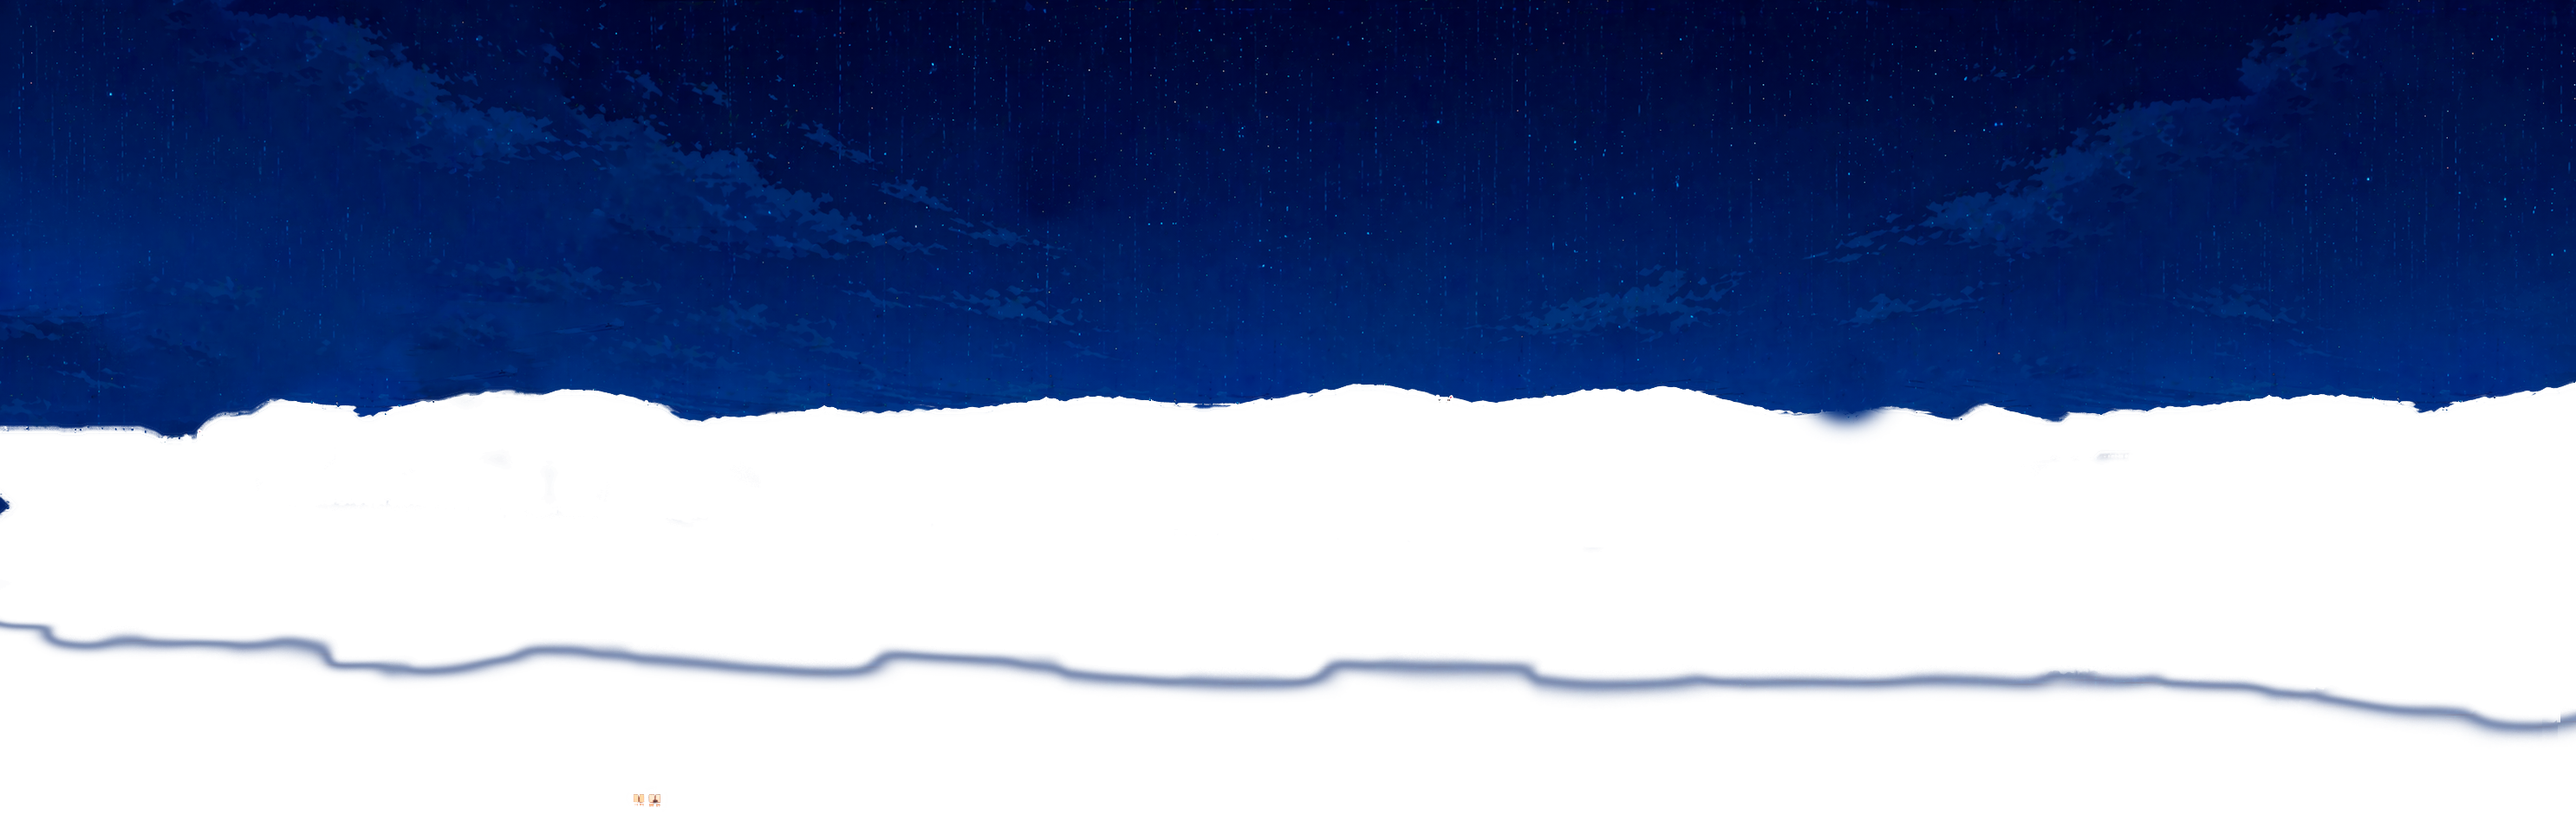
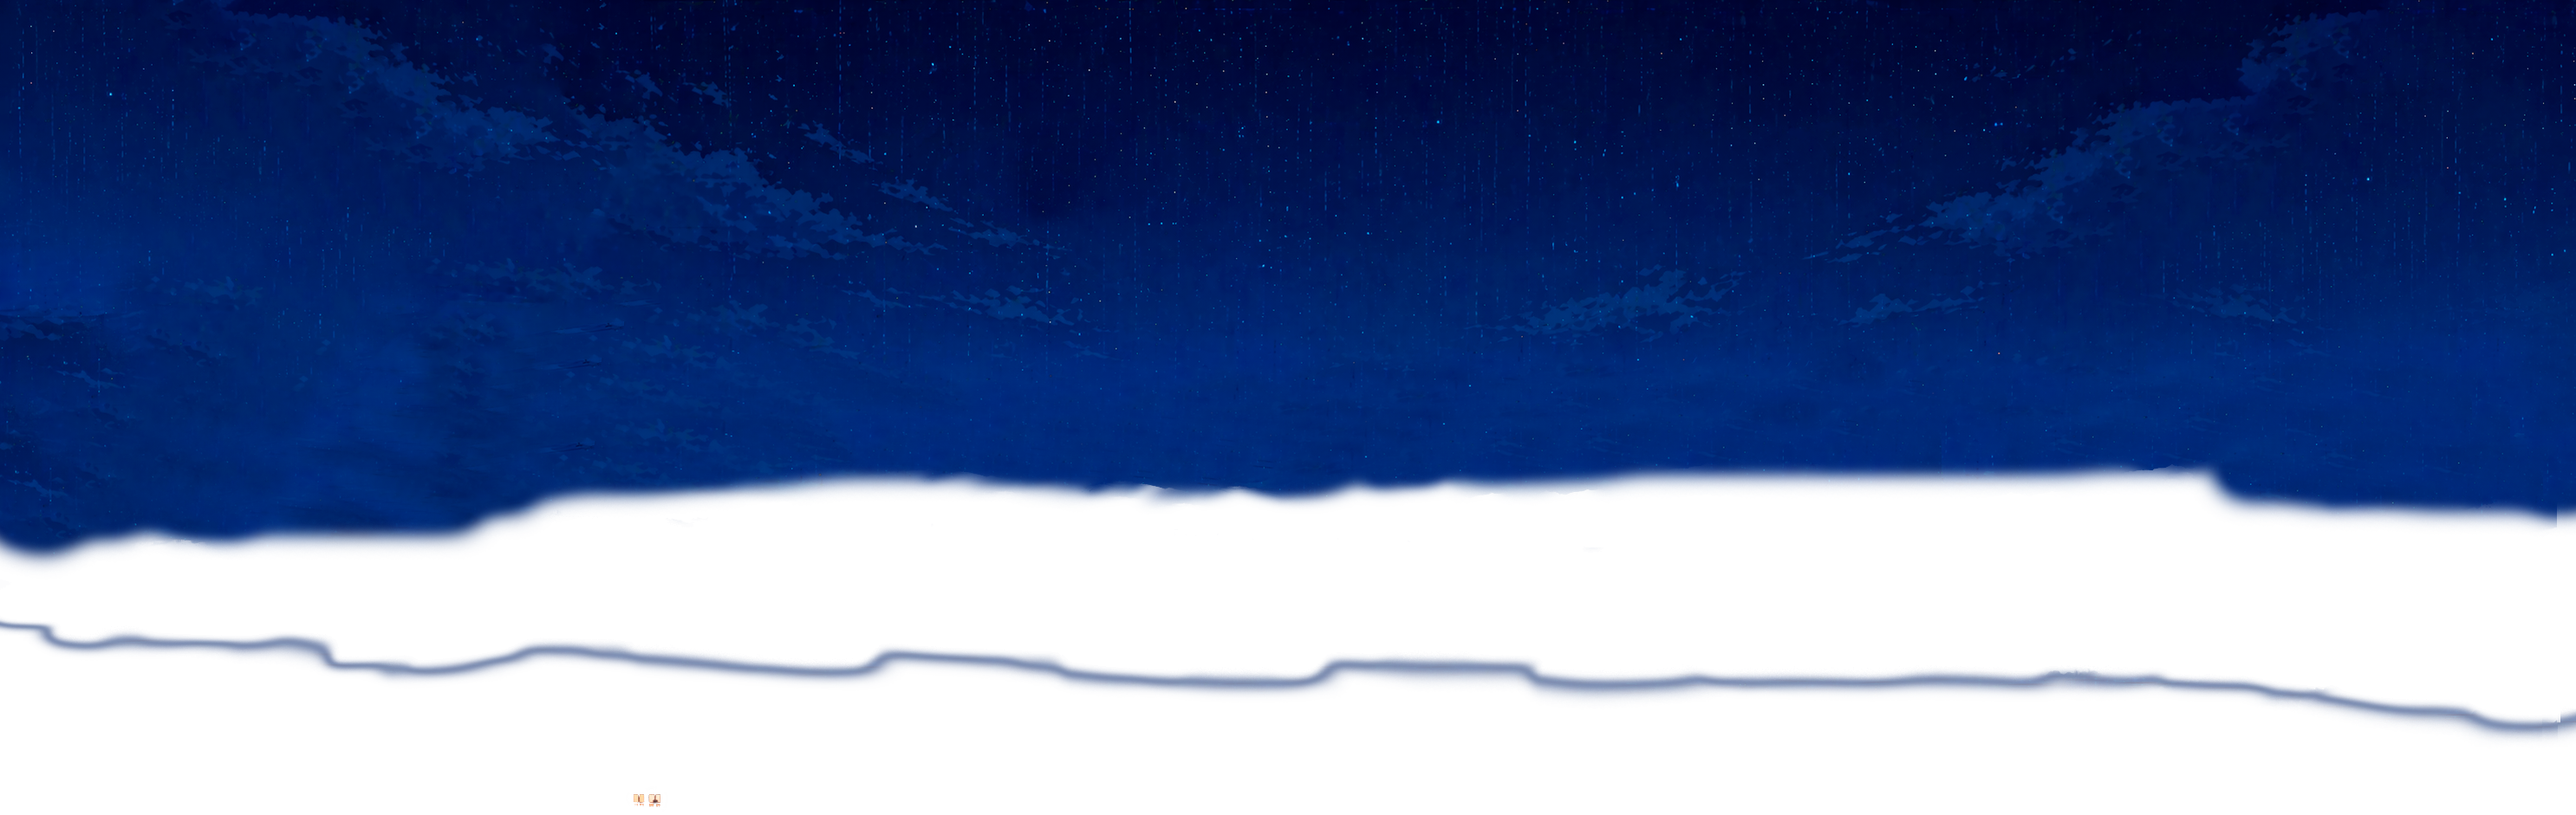
feat: add start-button and interface layer

Changed region(s): [[0.0, 0.4623, 1.0, 0.7088]]

diff --git a/src/shared/components/buttons/start-button/ui/StartButton.vue b/src/shared/components/buttons/start-button/ui/StartButton.vue
@@ -1,0 +1,24 @@
+<template>
+  <button
+    class="relative p-2 flex-center border-2 rounded transition-all border-slate-300/50 backdrop-blur-xs -rotate-y-6 rotate-x-70 -rotate-z-10 hover:rotate-x-0 hover:rotate-y-0 hover:rotate-z-0"
+  >
+    <svg
+      xmlns="http://www.w3.org/2000/svg"
+      viewBox="0 0 24 24"
+      fill="none"
+      stroke-width="2"
+      stroke-linecap="round"
+      stroke-linejoin="round"
+      class="h-10 w-10 stroke-slate-300/50"
+    >
+      <path
+        d="M3 11h3a2 2 0 0 1 2 2v3a2 2 0 0 1-2 2H5a2 2 0 0 1-2-2v-5Zm0 0a9 9 0 1 1 18 0m0 0v5a2 2 0 0 1-2 2h-1a2 2 0 0 1-2-2v-3a2 2 0 0 1 2-2h3Z"
+      />
+      <path d="M21 16v2a4 4 0 0 1-4 4h-5" />
+    </svg>
+  </button>
+</template>
+
+<script setup lang="ts"></script>
+
+<!-- <path d="M12 7v4"/><path d="M7.998 9.003a5 5 0 1 0 8-.005"/><rect x="3" y="3" width="18" height="18" rx="2"/> -->

diff --git a/src/scenes/ui/Scene.vue b/src/scenes/ui/Scene.vue
@@ -36,7 +36,6 @@
   import layer3 from "@/shared/assets/scenes/1/scene-1-layer-3.png";
   import layer4 from "@/shared/assets/scenes/1/scene-1-layer-4.png";
   import layer5 from "@/shared/assets/scenes/1/scene-1-layer-5.png";
-  import layer6 from "@/shared/assets/scenes/1/scene-1-layer-6.png";
 
   const props = defineProps<{
     zIndex: string;
@@ -63,12 +62,12 @@
     animation: move 50s linear infinite;
   }
   .animation-move-3 {
-    animation: move 100s linear infinite;
+    animation: move 250s linear infinite;
   }
   .animation-move-4 {
-    animation: move 400s linear infinite;
+    animation: move 1000s linear infinite;
   }
   .animation-move-5 {
-    animation: move 450s linear infinite;
+    animation: move 1200s linear infinite;
   }
 </style>

diff --git a/src/init/styles/main.css b/src/init/styles/main.css
@@ -1,8 +1,14 @@
 @import "tailwindcss";
 
-@theme {}
+@theme {
+  --index: calc(1vh + 1vw);
+}
 
-@layer base {}
+@layer base {
+  button {
+    @apply cursor-pointer outline-none;
+  }
+}
 
 @layer components {
   .layer {
@@ -26,4 +32,14 @@
   }
 }
 
-@layer utilities {}
+@layer utilities {
+  .flex-center {
+    @apply flex items-center justify-center;
+  }
+
+  .start-button-position {
+    @apply absolute;
+    bottom: calc(var(--index) * 1.5);
+    right: calc(var(--index) * 20);
+  }
+}

diff --git a/src/init/ui/App.vue b/src/init/ui/App.vue
@@ -5,11 +5,13 @@
     <WindowLayer zIndex="z-3" />
     <PovLayersList zIndex="z-4" />
     <VisionShadow zIndex="z-5" />
+    <InterfaceLayer zIndex="z-6" />
   </main>
 </template>
 
 <script setup lang="ts">
   import { PovLayersList, VisionShadow, WindowLayer } from "@/pov";
   import { Scene } from "@/scenes";
+  import { InterfaceLayer } from "@/interface";
   import { WeatherLayer, weatherVariants } from "@/features";
 </script>

diff --git a/src/interface/ui/InterfaceLayer.vue b/src/interface/ui/InterfaceLayer.vue
@@ -1,0 +1,14 @@
+<template>
+  <StartButton :class="['start-button-position', startButtonZIndex]" />
+</template>
+
+<script setup lang="ts">
+  import { computed } from "vue";
+  import { StartButton } from "@/shared/components/buttons";
+
+  const { zIndex } = defineProps<{
+    zIndex: string;
+  }>();
+
+  const startButtonZIndex = computed(() => zIndex);
+</script>

diff --git a/src/pov/ui/PovLayersList.vue b/src/pov/ui/PovLayersList.vue
@@ -20,7 +20,7 @@
   const { moveX, moveY, isZoomedIn: isCloseToWindow } = useCameraMovement();
 
   const povLayerClass = computed(() => [
-    "layer translate-z-2 transition-all",
+    "layer translate-z-2 transition-all ease-linear",
     zIndex,
     isCloseToWindow.value ? "bg-center" : "bg-bottom",
   ]);

diff --git a/src/interface/index.ts b/src/interface/index.ts
@@ -1,0 +1,1 @@
+export { default as InterfaceLayer } from "./ui/InterfaceLayer.vue";

diff --git a/src/shared/components/buttons/start-button/index.ts b/src/shared/components/buttons/start-button/index.ts
@@ -1,0 +1,1 @@
+export { default as StartButton } from "./ui/StartButton.vue";

diff --git a/src/shared/components/buttons/index.ts b/src/shared/components/buttons/index.ts
@@ -1,0 +1,1 @@
+export { StartButton } from "./start-button";
